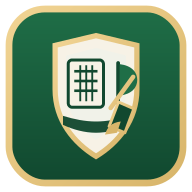
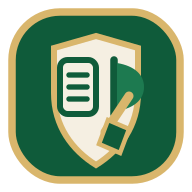
Add files via upload

diff --git a/app.js b/app.js
@@ -111,6 +111,18 @@ function extractStrokeTemplate(holes) {
   return arr.length === 18 && arr.every(v => v !== null) ? arr : null;
 }
 function formatSigned(n) { return n > 0 ? `+${n}` : `${n}`; }
+function formatMoneyAccounting(amount) {
+  const value = Number(amount) || 0;
+  const abs = Math.abs(value).toFixed(2);
+  if (Math.abs(value) < 0.0001) return "$0.00";
+  return value < 0 ? `($${abs})` : `$${abs}`;
+}
+function getFeaturedGameLabel(match, gameKey) {
+  const cfg = (match.selectedGames || []).find(g => g.key === gameKey) || {};
+  const basis = gameKey === "greenies" ? "Event" : formatBasisLabel(cfg.basis, "Net");
+  const mode = gameKey === "team_match" ? " · Best Ball" : (cfg.scoringMode ? ` · ${formatScoringModeLabel(cfg.scoringMode)}` : "");
+  return `${getGameLabel(gameKey)} (${basis}${mode})`;
+}
 function formatMatchDiff(diff, match = null) {
   if (!Number.isFinite(diff) || diff === 0) return 'AS';
   const sign = diff > 0 ? getTeamLabel(match, 1) : getTeamLabel(match, 2);
@@ -425,6 +437,7 @@ function renderAll() {
   populateCalcPlayers();
   populateCalcCourses();
   preserveMatchSetupUi();
+  renderSetupHandicapPreview();
 }
 
 function renderPlayers() {
@@ -774,8 +787,6 @@ function renderLeaderboard() {
   const match = getActiveMatch();
   const empty = document.getElementById('leaderboardEmpty');
   const wrap = document.getElementById('leaderboardWrap');
-  const meta = document.getElementById('leaderboardMeta');
-  const badge = document.getElementById('leaderboardStatusBadge');
   const playerBody = document.getElementById('playerLeaderboardBody');
   const teamBody = document.getElementById('teamLeaderboardBody');
   const matchStatus = document.getElementById('matchStatusSummary');
@@ -790,8 +801,6 @@ function renderLeaderboard() {
   if (!match) {
     empty.classList.remove('hidden');
     wrap.classList.add('hidden');
-    meta.textContent = 'No active match.';
-    badge.textContent = 'Awaiting match';
     return;
   }
 
@@ -800,15 +809,11 @@ function renderLeaderboard() {
   if (!metrics) {
     empty.classList.remove('hidden');
     wrap.classList.add('hidden');
-    meta.textContent = 'Match needs a valid course and tee.';
-    badge.textContent = 'Needs setup';
     return;
   }
 
   empty.classList.add('hidden');
   wrap.classList.remove('hidden');
-  meta.textContent = `${match.name || 'Round'} · ${metrics.course.name} · ${metrics.tee.teeName} · ${metrics.completed}/18 holes complete`;
-  badge.textContent = match.status === 'complete' ? 'Complete' : 'Live';
 
   playerBody.innerHTML = metrics.players.slice().sort((a, b) => a.netDiff - b.netDiff || a.toPar - b.toPar).map(p => `
     <tr>
@@ -952,35 +957,36 @@ function getMatchStatusOptions(match) {
 
 function buildFeaturedMatchStatus(match, metrics, gameKey) {
   const cfg = (match.selectedGames || []).find(g => g.key === gameKey) || {};
-  const basis = formatBasisLabel(cfg.basis, gameKey === 'greenies' ? 'Event' : 'Net');
-  const mode = cfg.scoringMode ? ` · ${formatScoringModeLabel(cfg.scoringMode)}` : (gameKey === 'team_match' ? ' · Best Ball' : '');
-  const title = `${getGameLabel(gameKey)} (${basis}${mode})`;
+  const title = getFeaturedGameLabel(match, gameKey);
   if (['nassau', 'team_match', 'team_stroke'].includes(gameKey) && metrics.teams.length === 2) {
     const diffs = computeTeamGameDiffs(match, metrics, gameKey);
     const frontStatus = formatTeamGameStatus(match, metrics, diffs.front);
     const backStatus = formatTeamGameStatus(match, metrics, diffs.back);
     const overallTeam = formatTeamGameStatus(match, metrics, diffs.overall);
-    if (gameKey === 'nassau') {
-      return `<div><strong>${escapeHtml(title)}:</strong> Front ${frontStatus}</div><div><strong>Back 9:</strong> ${backStatus}</div><div><strong>Overall:</strong> ${overallTeam}</div>`;
-    }
-    return `<div><strong>${escapeHtml(title)}:</strong> ${overallTeam}</div><div><strong>Front 9:</strong> ${frontStatus}</div><div><strong>Back 9:</strong> ${backStatus}</div>`;
+    const items = [
+      { label: gameKey === 'nassau' ? 'Front 9' : 'Front 9', value: frontStatus },
+      { label: 'Back 9', value: backStatus },
+      { label: gameKey === 'nassau' ? 'Overall 18' : 'Overall', value: overallTeam },
+    ];
+    return `<div class="match-status-head"><strong>${escapeHtml(title)}</strong></div><div class="match-status-grid">${items.map(item => `<div class="match-status-tile"><div class="tiny">${escapeHtml(item.label)}</div><div class="match-status-value">${item.value}</div></div>`).join('')}</div>`;
   }
   if (gameKey === 'individual_match') {
     const basisKey = String(cfg.basis || 'net').toLowerCase() === 'gross' ? 'grossTotal' : 'netTotal';
     const leader = metrics.players.slice().sort((a,b) => (a[basisKey] - b[basisKey]) || (a.grossTotal - b.grossTotal))[0];
     const leaderVal = leader ? (basisKey === 'grossTotal' ? leader.toPar : leader.netDiff) : null;
-    return `<div><strong>${escapeHtml(title)} leader:</strong> ${leader ? `${escapeHtml(leader.player.name)} (${formatSigned(leaderVal)})` : '—'}</div>`;
+    return `<div class="match-status-head"><strong>${escapeHtml(title)}</strong></div><div class="match-status-tile"><div class="tiny">Leader</div><div class="match-status-value">${leader ? `${escapeHtml(leader.player.name)} (${formatSigned(leaderVal)})` : '—'}</div></div>`;
   }
   if (gameKey === 'skins') {
+    const basis = formatBasisLabel(cfg.basis);
     const skinText = cfg.skinsType === 'team' ? describeTeamSkinLeader(metrics.teams) : describeSkinLeader(metrics.players);
-    return `<div><strong>${escapeHtml(getGameLabel(gameKey))} (${escapeHtml(cfg.skinsType === 'team' ? 'Team' : 'Individual')} · ${escapeHtml(basis)}):</strong> ${skinText}</div>`;
+    return `<div class="match-status-head"><strong>${escapeHtml(getGameLabel(gameKey))} (${escapeHtml(cfg.skinsType === 'team' ? 'Team' : 'Individual')} · ${escapeHtml(basis)})</strong></div><div class="match-status-tile"><div class="tiny">Leader</div><div class="match-status-value">${skinText}</div></div>`;
   }
   if (gameKey === 'greenies') {
     const wins = Object.values(match.greeniesWinners || {}).reduce((acc, id) => { acc[id] = (acc[id] || 0) + 1; return acc; }, {});
     const leaders = Object.entries(wins).sort((a,b)=>b[1]-a[1]).slice(0,3).map(([id,n]) => `${escapeHtml(getPlayer(id)?.name || 'Unknown')} (${n})`).join(', ');
-    return `<div><strong>Greenies:</strong> ${(cfg.participants || []).length || 0} participant(s)</div><div><strong>Leader(s):</strong> ${leaders || 'None yet'}</div>`;
+    return `<div class="match-status-head"><strong>Greenies</strong></div><div class="match-status-grid"><div class="match-status-tile"><div class="tiny">Participants</div><div class="match-status-value">${(cfg.participants || []).length || 0}</div></div><div class="match-status-tile"><div class="tiny">Leader(s)</div><div class="match-status-value">${leaders || 'None yet'}</div></div></div>`;
   }
-  return `<div><strong>${escapeHtml(title)}:</strong> Live</div>`;
+  return `<div class="match-status-head"><strong>${escapeHtml(title)}</strong></div><div class="match-status-tile"><div class="tiny">Status</div><div class="match-status-value">Live</div></div>`;
 }
 
 function buildClassicScorecard(match, metrics) {
@@ -990,30 +996,37 @@ function buildClassicScorecard(match, metrics) {
   const front = holes.slice(0,9);
   const back = holes.slice(9,18);
   const holeHeader = holes.map(h => `<th>H${h.holeNumber}</th>`).join('');
-  const parRow = `<tr><td class="scorecard-sticky-name"><strong>Par</strong></td><td class="scorecard-sticky-team">Course</td>${holes.map(h => `<td>${h.par ?? '—'}</td>`).join('')}<td><strong>${front.reduce((s,h)=>s+(Number(h.par)||0),0)}</strong></td><td><strong>${back.reduce((s,h)=>s+(Number(h.par)||0),0)}</strong></td><td><strong>${holes.reduce((s,h)=>s+(Number(h.par)||0),0)}</strong></td></tr>`;
+  const sum = arr => arr.reduce((s,h)=>s+(Number(h)||0),0);
+  const scorecardMetaRow = (label, extractor) => `<tr><td class="scorecard-sticky-name"><strong>${label}</strong></td><td class="scorecard-sticky-team">Course</td>${holes.map(h => `<td>${extractor(h) ?? '—'}</td>`).join('')}<td><strong>${sum(front.map(extractor)) || '—'}</strong></td><td><strong>${sum(back.map(extractor)) || '—'}</strong></td><td><strong>${sum(holes.map(extractor)) || '—'}</strong></td></tr>`;
+  const yardageRow = scorecardMetaRow('Yds', h => Number(h.yardage) || 0);
+  const parRow = scorecardMetaRow('Par', h => Number(h.par) || 0);
+  const siRow = scorecardMetaRow('SI', h => Number(h.strokeIndex) || 0);
+  const dotMarkup = count => count > 0 ? `<span class="score-dots">${'•'.repeat(Math.min(count,3))}${count>3?`<sup>${count}</sup>`:''}</span>` : '';
   const playerRows = metrics.players.map(p => {
     const frontGross = p.scores.slice(0,9).reduce((s,x)=>s+(Number(x.gross)||0),0);
     const backGross = p.scores.slice(9,18).reduce((s,x)=>s+(Number(x.gross)||0),0);
-    const frontNet = front.map((hole, idx) => {
+    const frontNetValues = front.map((hole, idx) => {
       const gross = Number(p.scores[idx]?.gross) || null;
       const strokes = holeStrokeAllowanceForPlayer(hole.strokeIndex, p.playHdcp, metrics.lowPlaying);
       return gross ? gross - strokes : null;
-    }).reduce((s,v)=>s+(Number(v)||0),0);
-    const backNet = back.map((hole, idx) => {
+    });
+    const backNetValues = back.map((hole, idx) => {
       const gross = Number(p.scores[idx+9]?.gross) || null;
       const strokes = holeStrokeAllowanceForPlayer(hole.strokeIndex, p.playHdcp, metrics.lowPlaying);
       return gross ? gross - strokes : null;
-    }).reduce((s,v)=>s+(Number(v)||0),0);
+    });
+    const frontNet = frontNetValues.reduce((s,v)=>s+(Number(v)||0),0);
+    const backNet = backNetValues.reduce((s,v)=>s+(Number(v)||0),0);
     const cells = holes.map((hole, idx) => {
       const gross = Number(p.scores[idx]?.gross) || null;
-      if (!gross) return '<td>—</td>';
       const strokes = holeStrokeAllowanceForPlayer(hole.strokeIndex, p.playHdcp, metrics.lowPlaying);
+      if (!gross) return `<td><div class="score-main">—</div><div class="score-sub">—${dotMarkup(strokes)}</div></td>`;
       const net = gross - strokes;
-      return `<td>${gross}<span class="tiny"><br>${net}</span></td>`;
+      return `<td><div class="score-main">${gross}</div><div class="score-sub">${net}${dotMarkup(strokes)}</div></td>`;
     }).join('');
-    return `<tr><td class="scorecard-sticky-name"><strong>${escapeHtml(p.player.name)}</strong></td><td class="scorecard-sticky-team">${escapeHtml(getTeamLabel(match,p.team))}</td>${cells}<td><strong>${frontGross}<span class="tiny"><br>${frontNet || '—'}</span></strong></td><td><strong>${backGross}<span class="tiny"><br>${backNet || '—'}</span></strong></td><td><strong>${p.grossTotal || 0}<span class="tiny"><br>${p.netTotal || 0}</span></strong></td></tr>`;
+    return `<tr><td class="scorecard-sticky-name"><strong>${escapeHtml(p.player.name)}</strong></td><td class="scorecard-sticky-team">${escapeHtml(getTeamLabel(match,p.team))}</td>${cells}<td><strong>${frontGross}</strong><div class="score-sub total-sub">${frontNet || '—'}</div></td><td><strong>${backGross}</strong><div class="score-sub total-sub">${backNet || '—'}</div></td><td><strong>${p.grossTotal || 0}</strong><div class="score-sub total-sub">${p.netTotal || 0}</div></td></tr>`;
   }).join('');
-  return `<div class="scorecard-sub tiny">Each hole shows gross on top and net below. Totals show gross / net.</div><div class="scorecard-wrap"><table class="scorecard-table"><thead><tr><th class="scorecard-sticky-name">Player</th><th class="scorecard-sticky-team">Team</th>${holeHeader}<th>Out</th><th>In</th><th>Total</th></tr></thead><tbody>${parRow}${playerRows}</tbody></table></div>`;
+  return `<div class="scorecard-sub tiny">Per-hole cells show gross on top, net below, and dots for strokes received. Course rows include yardage, par, and stroke index.</div><div class="scorecard-wrap"><table class="scorecard-table"><thead><tr><th class="scorecard-sticky-name">Player</th><th class="scorecard-sticky-team">Team</th>${holeHeader}<th>Out</th><th>In</th><th>Total</th></tr></thead><tbody>${yardageRow}${parRow}${siRow}${playerRows}</tbody></table></div>`;
 }
 
 function buildNetPayoutSummary(match, metrics) {
@@ -1028,25 +1041,25 @@ function buildNetPayoutSummary(match, metrics) {
     const gameCells = games.map(game => {
       const amount = game.amounts[player.id] || 0;
       const cls = amount > 0.0001 ? 'payout-total-positive' : amount < -0.0001 ? 'payout-total-negative' : '';
-      const text = Math.abs(amount) > 0.0001 ? `${amount > 0 ? '+' : '-'}$${Math.abs(amount).toFixed(2)}` : '—';
+      const text = Math.abs(amount) > 0.0001 ? formatMoneyAccounting(amount) : '—';
       return `<td class="${cls}">${text}</td>`;
     }).join('');
     const total = totals[player.id] || 0;
     const totalCls = total > 0.0001 ? 'payout-total-positive' : total < -0.0001 ? 'payout-total-negative' : '';
-    const totalText = Math.abs(total) > 0.0001 ? `${total > 0 ? '+' : '-'}$${Math.abs(total).toFixed(2)}` : '—';
+    const totalText = Math.abs(total) > 0.0001 ? formatMoneyAccounting(total) : '—';
     return `<tr><td><strong>${escapeHtml(player.name)}</strong></td>${gameCells}<td class="${totalCls}"><strong>${totalText}</strong></td></tr>`;
   }).join('');
   const columnFoot = games.map(game => {
     const colTotal = players.reduce((sum, player) => sum + (game.amounts[player.id] || 0), 0);
     const cls = Math.abs(colTotal) <= 0.0001 ? '' : (colTotal > 0 ? 'payout-total-positive' : 'payout-total-negative');
-    const text = Math.abs(colTotal) > 0.0001 ? `${colTotal > 0 ? '+' : '-'}$${Math.abs(colTotal).toFixed(2)}` : '$0.00';
+    const text = formatMoneyAccounting(colTotal);
     return `<td class="${cls}"><strong>${text}</strong></td>`;
   }).join('');
   const overallTotal = players.reduce((sum, player) => sum + (totals[player.id] || 0), 0);
-  const overallText = Math.abs(overallTotal) > 0.0001 ? `${overallTotal > 0 ? '+' : '-'}$${Math.abs(overallTotal).toFixed(2)}` : '$0.00';
+  const overallText = formatMoneyAccounting(overallTotal);
   const settlements = optimalSettlementRows(totals);
   const settlementRows = settlements.length
-    ? settlements.map(row => `<tr><td>${escapeHtml(getPlayer(row.from)?.name || 'Unknown')}</td><td>${escapeHtml(getPlayer(row.to)?.name || 'Unknown')}</td><td><strong>$${row.amount.toFixed(2)}</strong></td></tr>`).join('')
+    ? settlements.map(row => `<tr><td>${escapeHtml(getPlayer(row.from)?.name || 'Unknown')}</td><td>${escapeHtml(getPlayer(row.to)?.name || 'Unknown')}</td><td><strong>${formatMoneyAccounting(row.amount)}</strong></td></tr>`).join('')
     : '<tr><td colspan="3">No payouts due right now.</td></tr>';
   return `
     <div class="payout-summary-intro"><strong>Net payout (live):</strong> by player across the selected games, rolled to a total.</div>
@@ -1069,41 +1082,39 @@ function buildNetPayoutSummary(match, metrics) {
 function buildSelectedGamesSummary(match, metrics) {
   const selected = Array.isArray(match.selectedGames) ? match.selectedGames : [];
   if (!selected.length) {
-    return `<div><strong>Round pace:</strong> ${metrics.completed ? `${Math.round((metrics.completed / 18) * 100)}% complete` : 'Not started'}</div>`;
+    return `<div class="game-summary-grid"><div class="game-summary-card"><div class="game-summary-title">Round pace</div><div class="game-summary-value">${metrics.completed ? `${Math.round((metrics.completed / 18) * 100)}% complete` : 'Not started'}</div></div></div>`;
   }
-  const frontStatus = metrics.teams.length === 2 ? (metrics.teams[0].front === 0 ? 'AS' : metrics.teams[0].front > 0 ? `${describeTeamLabel(match, 1, metrics)} ${Math.abs(metrics.teams[0].front)} up` : `${describeTeamLabel(match, 2, metrics)} ${Math.abs(metrics.teams[0].front)} up`) : '—';
-  const backStatus = metrics.teams.length === 2 ? (metrics.teams[0].back === 0 ? 'AS' : metrics.teams[0].back > 0 ? `${describeTeamLabel(match, 1, metrics)} ${Math.abs(metrics.teams[0].back)} up` : `${describeTeamLabel(match, 2, metrics)} ${Math.abs(metrics.teams[0].back)} up`) : '—';
-  const overallTeam = metrics.teams.length === 2 ? (metrics.matchDiff === 0 ? 'AS' : metrics.matchDiff > 0 ? `${describeTeamLabel(match, 1, metrics)} ${Math.abs(metrics.matchDiff)} up` : `${describeTeamLabel(match, 2, metrics)} ${Math.abs(metrics.matchDiff)} up`) : '—';
-
-  const gameLines = selected.map(cfg => {
-    switch (cfg.key) {
-      case 'nassau':
-        return `<div><strong>${escapeHtml(getGameLabel(cfg.key))} (${escapeHtml(formatBasisLabel(cfg.basis))}):</strong> Front ${frontStatus} · Back ${backStatus} · 18 ${overallTeam}</div>`;
-      case 'individual_match':
-        return `<div><strong>${escapeHtml(getGameLabel(cfg.key))} (${escapeHtml(formatBasisLabel(cfg.basis))}):</strong> Leader ${metrics.bestPlayerNet ? `${escapeHtml(metrics.bestPlayerNet.player.name)} (${formatSigned(metrics.bestPlayerNet.netDiff)})` : '—'}</div>`;
-      case 'team_match':
-        return `<div><strong>${escapeHtml(getGameLabel(cfg.key))} (${escapeHtml(formatBasisLabel(cfg.basis))}):</strong> ${overallTeam}</div>`;
-      case 'team_stroke':
-        return `<div><strong>${escapeHtml(getGameLabel(cfg.key))} (${escapeHtml(formatBasisLabel(cfg.basis))} · ${escapeHtml(formatScoringModeLabel(cfg.scoringMode))}):</strong> ${metrics.bestTeam ? `${describeTeamLabel(match, metrics.bestTeam.team, metrics)} (${formatSigned(metrics.bestTeam.netDiff)})` : '—'}</div>`;
-      case 'skins':
-        return cfg.skinsType === 'team'
-          ? `<div><strong>Team Skins (${escapeHtml(formatBasisLabel(cfg.basis))}):</strong> ${describeTeamSkinLeader(metrics.teams)}</div>`
-          : `<div><strong>Individual Skins (${escapeHtml(formatBasisLabel(cfg.basis))}):</strong> ${describeSkinLeader(metrics.players)}</div>`;
-      case 'greenies': {
-        const wins = Object.values(match.greeniesWinners || {}).reduce((acc, id) => { acc[id] = (acc[id] || 0) + 1; return acc; }, {});
-        const leaders = Object.entries(wins).sort((a,b)=>b[1]-a[1]).slice(0,3).map(([id,n]) => `${escapeHtml(getPlayer(id)?.name || 'Unknown')} (${n})`).join(', ');
-        const byHole = Object.entries(match.greeniesWinners || {})
-          .sort((a,b)=>Number(a[0]) - Number(b[0]))
-          .map(([hole,id]) => `H${hole} ${escapeHtml(getPlayer(id)?.name || 'Unknown')}`)
-          .join(' · ');
-        return `<div><strong>Greenies:</strong> ${(cfg.participants || []).length || 0} participant(s) · leaders ${leaders || 'None yet'}${byHole ? `<br /><span class="tiny">Winners by par 3: ${byHole}</span>` : ''}</div>`;
-      }
-      default:
-        return '';
+  const cards = selected.map(cfg => {
+    const title = getFeaturedGameLabel(match, cfg.key);
+    let value = 'Live';
+    let sub = '';
+    if (cfg.key === 'nassau') {
+      const diffs = computeTeamGameDiffs(match, metrics, cfg.key);
+      value = formatTeamGameStatus(match, metrics, diffs.overall);
+      sub = `Front 9: ${formatTeamGameStatus(match, metrics, diffs.front)} · Back 9: ${formatTeamGameStatus(match, metrics, diffs.back)}`;
+    } else if (cfg.key === 'team_match') {
+      const diffs = computeTeamGameDiffs(match, metrics, cfg.key);
+      value = formatTeamGameStatus(match, metrics, diffs.overall);
+      sub = `Front 9: ${formatTeamGameStatus(match, metrics, diffs.front)} · Back 9: ${formatTeamGameStatus(match, metrics, diffs.back)}`;
+    } else if (cfg.key === 'team_stroke') {
+      value = metrics.bestTeam ? `${describeTeamLabel(match, metrics.bestTeam.team, metrics)} (${formatSigned(metrics.bestTeam.netDiff)})` : '—';
+      sub = `Mode: ${formatScoringModeLabel(cfg.scoringMode)}`;
+    } else if (cfg.key === 'individual_match') {
+      value = metrics.bestPlayerNet ? `${metrics.bestPlayerNet.player.name} (${formatSigned(metrics.bestPlayerNet.netDiff)})` : '—';
+      sub = 'Leader by selected basis';
+    } else if (cfg.key === 'skins') {
+      value = cfg.skinsType === 'team' ? describeTeamSkinLeader(metrics.teams) : describeSkinLeader(metrics.players);
+      sub = cfg.skinsType === 'team' ? 'Team skins leader' : 'Individual skins leader';
+    } else if (cfg.key === 'greenies') {
+      const wins = Object.values(match.greeniesWinners || {}).reduce((acc, id) => { acc[id] = (acc[id] || 0) + 1; return acc; }, {});
+      const leaders = Object.entries(wins).sort((a,b)=>b[1]-a[1]).slice(0,2).map(([id,n]) => `${getPlayer(id)?.name || 'Unknown'} (${n})`).join(', ');
+      value = leaders || 'No winners yet';
+      sub = `${(cfg.participants || []).length || 0} participant(s)`;
     }
-  }).filter(Boolean);
-  gameLines.push(`<div><strong>Round pace:</strong> ${metrics.completed ? `${Math.round((metrics.completed / 18) * 100)}% complete` : 'Not started'}</div>`);
-  return gameLines.join('');
+    return `<div class="game-summary-card"><div class="game-summary-title">${escapeHtml(title)}</div><div class="game-summary-value">${escapeHtml(value)}</div>${sub ? `<div class="game-summary-sub">${escapeHtml(sub)}</div>` : ''}</div>`;
+  });
+  cards.push(`<div class="game-summary-card game-summary-card-accent"><div class="game-summary-title">Round pace</div><div class="game-summary-value">${metrics.completed ? `${Math.round((metrics.completed / 18) * 100)}% complete` : 'Not started'}</div><div class="game-summary-sub">${metrics.completed}/18 holes completed</div></div>`);
+  return `<div class="game-summary-grid">${cards.join('')}</div>`;
 }
 
 function populateCourseSelects() {
@@ -1689,6 +1700,16 @@ document.getElementById('leaderboard').addEventListener('change', e => {
   document.getElementById('score').addEventListener('change', e => {
     if (e.target.matches('[data-greenies-winner]')) {
       document.querySelectorAll('[data-greenies-winner]').forEach(el => { if (el !== e.target) el.checked = false; });
+    }
+  });
+  document.getElementById('setup').addEventListener('change', e => {
+    if (e.target.matches('[data-player-slot], [data-team-name], #teamCountSelect, #playersPerTeamSelect, #matchCourseSelect, #matchTeeSelect, [name="allowance"]')) {
+      setTimeout(() => { renderSetupHandicapPreview(); }, 0);
+    }
+  });
+  document.getElementById('setup').addEventListener('input', e => {
+    if (e.target.matches('[data-team-name], [name="allowance"]')) {
+      renderSetupHandicapPreview();
     }
   });
   document.getElementById('score').addEventListener('click', e => {

diff --git a/style.css b/style.css
@@ -28,7 +28,8 @@ body {
 .sub { margin: 4px 0 0; color: var(--muted); font-size: 12px; line-height: 1.35; max-width: 520px; }
 
 .brand-wrap{display:flex;align-items:center;gap:12px}
-.brand-mark{width:52px;height:52px;flex:0 0 52px;filter:drop-shadow(0 4px 8px rgba(0,0,0,.10))}
+.brand-mark{width:52px;height:52px;flex:0 0 52px;display:grid;place-items:center;filter:drop-shadow(0 4px 8px rgba(0,0,0,.10))}
+.brand-mark svg{width:52px;height:52px;display:block}
 .icon-tabs{gap:8px}
 .icon-tabs .tab{
   min-height:68px;
@@ -134,6 +135,7 @@ input, select, textarea {
 .actions { display: flex; gap: 8px; }
 .actions.wrap { flex-wrap: wrap; }
 .compact-actions button, .compact-actions .button-link { padding: 8px 10px; font-size: 12px; }
+.mini-title{margin:0;font-size:14px}
 .list { display: grid; gap: 10px; }
 .item {
   border: 1px solid var(--border);
@@ -410,3 +412,23 @@ body.keyboard-open .top-tabs{
   background:var(--bg);
   padding-top:6px;
 }
+
+.momentum-controls{display:grid;grid-template-columns:repeat(2,minmax(0,1fr));gap:8px;align-items:end}
+.momentum-controls .inline-select{min-width:0}
+.momentum-controls .inline-select select{width:100%}
+.match-status-head{margin-bottom:10px}
+.match-status-grid{display:grid;grid-template-columns:repeat(3,minmax(0,1fr));gap:8px}
+.match-status-tile{border:1px solid var(--border);border-radius:12px;padding:10px;background:#fbfdfc}
+.match-status-value{font-weight:700;font-size:13px;line-height:1.3;margin-top:4px}
+.game-summary-grid{display:grid;grid-template-columns:repeat(2,minmax(0,1fr));gap:10px}
+.game-summary-card{border:1px solid var(--border);border-radius:12px;padding:10px;background:#fbfdfc}
+.game-summary-card-accent{background:#eef7f2;border-color:#cfe4d8}
+.game-summary-title{font-size:11px;color:var(--muted);font-weight:700;margin-bottom:6px}
+.game-summary-value{font-size:13px;font-weight:700;line-height:1.3}
+.game-summary-sub{font-size:11px;color:var(--muted);margin-top:6px;line-height:1.35}
+.handicap-preview-card{margin-top:4px}
+.score-main{font-weight:700}
+.score-sub{font-size:10px;color:var(--muted);line-height:1.25;margin-top:2px;display:flex;justify-content:center;gap:3px;align-items:center}
+.total-sub{justify-content:center}
+.score-dots{color:#0b5d3b;letter-spacing:1px;font-weight:700}
+@media (max-width:760px){.match-status-grid{grid-template-columns:1fr}.game-summary-grid{grid-template-columns:1fr}.momentum-controls{grid-template-columns:repeat(2,minmax(0,1fr))}.brand-wrap{align-items:flex-start}}

diff --git a/index.html b/index.html
@@ -12,7 +12,19 @@
 <body>
   <header class="app-header compact-header">
     <div class="brand-wrap">
-      <img src="icons/logo-mark.svg" alt="The Dye Ledger logo" class="brand-mark" />
+      <div class="brand-mark" aria-hidden="true">
+        <svg viewBox="0 0 64 64" xmlns="http://www.w3.org/2000/svg" role="img">
+          <rect x="4" y="4" width="56" height="56" rx="16" fill="#0f5b3a"/>
+          <rect x="4" y="4" width="56" height="56" rx="16" fill="none" stroke="#d9b66c" stroke-width="2.5"/>
+          <path d="M32 12l14 4v15c0 11-6 19-14 24-8-5-14-13-14-24V16z" fill="#f5efe2" stroke="#d9b66c" stroke-width="2"/>
+          <rect x="20" y="20" width="12" height="18" rx="2.5" fill="none" stroke="#0f5b3a" stroke-width="2"/>
+          <path d="M23 25h6M23 29h6M23 33h6" stroke="#0f5b3a" stroke-width="1.8" stroke-linecap="round"/>
+          <path d="M38 20v18" stroke="#0f5b3a" stroke-width="2.5" stroke-linecap="round"/>
+          <path d="M39 21c6 1 9 4 9 8s-3 7-9 8z" fill="#1d7a50"/>
+          <path d="M35 44l8-12" stroke="#d9b66c" stroke-width="3" stroke-linecap="round"/>
+          <path d="M33 48l3-8 7 3-3 8z" fill="#0f5b3a" stroke="#d9b66c" stroke-width="1.5"/>
+        </svg>
+      </div>
       <div>
       <h1>The Dye Ledger</h1>
       <p class="sub">A compact match-and-games ledger for golf groups.</p>
@@ -132,7 +144,7 @@
             <h2>Game setup</h2>
             <div id="setupLockMsg" class="tiny">Build a new match, or edit the active one.</div>
           </div>
-          <div class="actions wrap compact-actions">
+          <div class="actions compact-actions momentum-controls">
             <button id="newMatchBtn" type="button" class="secondary">New Match</button>
             <button id="editActiveMatchBtn" type="button" class="secondary">Edit Active Match</button>
           </div>
@@ -247,16 +259,6 @@
 
 
     <section id="leaderboard" class="panel">
-      <div class="card tight-card">
-        <div class="item-header">
-          <div>
-            <h2>Scoreboard</h2>
-            <div id="leaderboardMeta" class="muted">No active match.</div>
-          </div>
-          <div id="leaderboardStatusBadge" class="badge">Awaiting match</div>
-        </div>
-      </div>
-
       <div id="leaderboardWrap" class="hidden">
         <div class="leaderboard-cards">
           <div class="card tight-card">

diff --git a/service-worker.js b/service-worker.js
@@ -1,4 +1,4 @@
-const CACHE_NAME = 'the-dye-ledger-v16-7-icons';
+const CACHE_NAME = 'the-dye-ledger-v17-refine';
 const ASSETS = [
   './',
   './index.html',

diff --git a/README.md b/README.md
@@ -1,12 +1,17 @@
-The Dye Ledger – Tweaks v16.6
+# The Dye Ledger — v17 Refinements
 
 Changes in this build:
-- Added a Featured Game selector for Match Status on the Scoreboard.
-- Added a classic scorecard view between the momentum and net payout sections.
-- Moved the main app tabs back to the top and made them sticky.
+- fixed the main Dye Ledger brand mark with a more robust inline/header SVG and refreshed app icon assets
+- improved Nassau featured-match presentation to use consistent Front 9 / Back 9 / Overall tiles
+- redesigned Games Summary into cleaner summary cards
+- removed the low-value top scoreboard header block
+- changed payout negatives to accounting style `( $ )` formatting
+- kept momentum selectors side by side on iPhone
+- upgraded the classic scorecard with Yardage, Par, Stroke Index, and per-hole stroke dots
+- added a handicap preview at the bottom of Game Setup showing course handicap, playing handicap, and strokes received
 
-Update steps:
-1. Replace the contents of your current `golf-app` folder with these files.
-2. Commit to GitHub.
-3. Open the live site in Safari and refresh.
-4. If the PWA still shows the older layout, delete and re-add it to the home screen.
+Validation checks run with dummy data:
+- Nassau momentum / featured status alignment
+- Team Stroke Play aggregate featured status
+- Greenies payout inclusion and zero-sum live payout cross-foot
+- Classic scorecard rendering with Yds / SI rows
